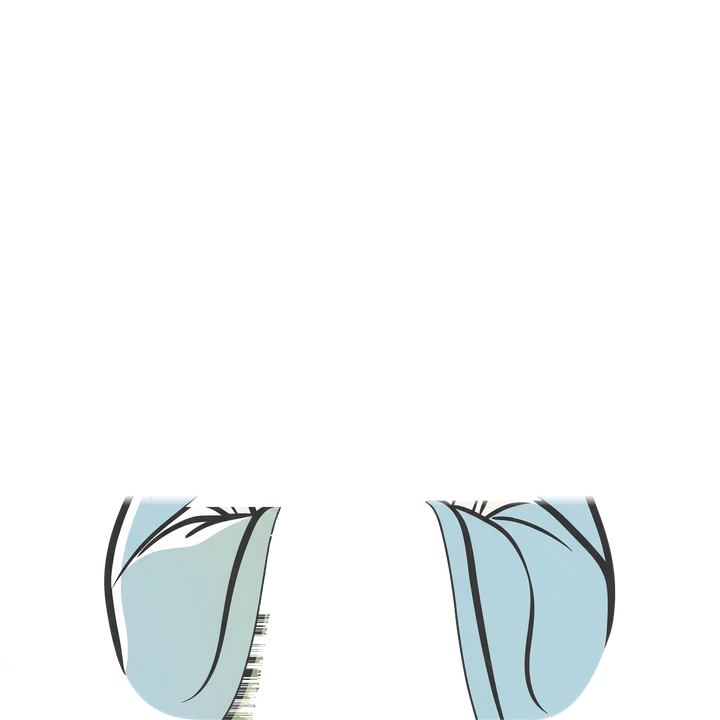
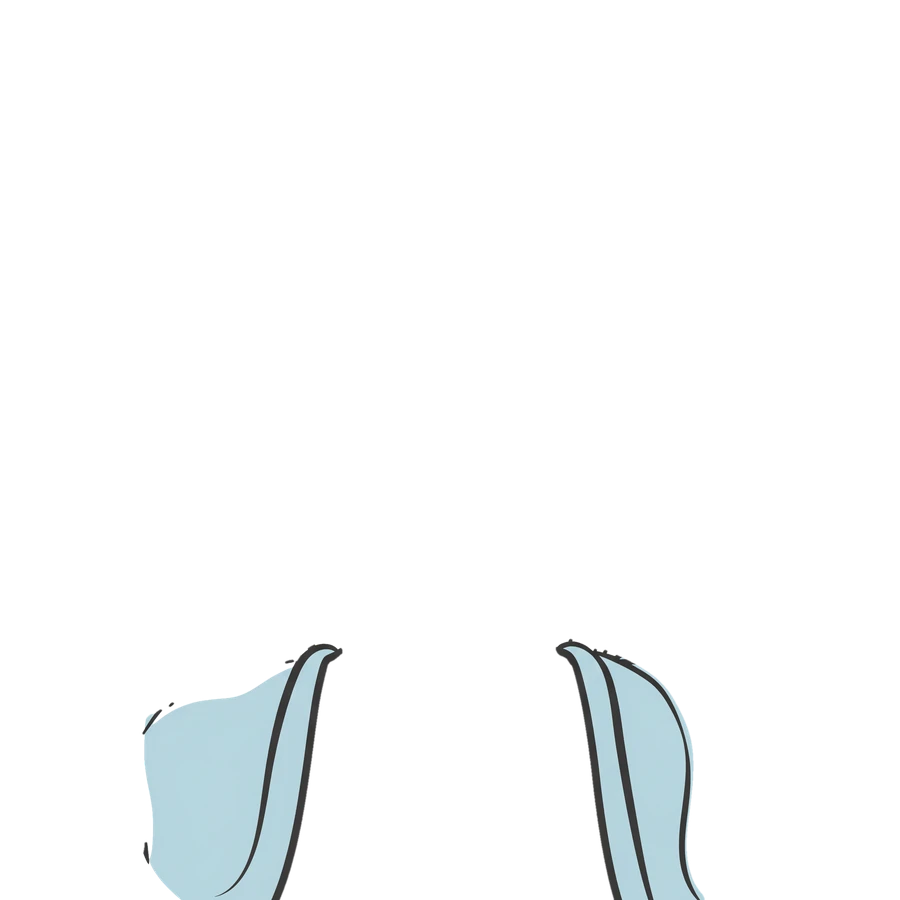
Afinador: mãos da própria ilustração saindo da manga, dobrando no pulso e se abrindo ao afinar
Mãos em contornos vetoriais (maria-maos.js) deformados por maria.js; corpo único para os dois
rostos (só olhos e boca mudam) e mangas na frente. Feixe não cobre mais o rosto. SW cl-v108.

Claude-Session: https://claude.ai/code/session_01XsCZQaSmJRsvCUYf3Lt5tw

Changed region(s): [[0.5806, 0.6722, 0.8556, 1.0], [0.1222, 0.6722, 0.3972, 1.0]]

diff --git a/app/js/maria.js b/app/js/maria.js
@@ -1,13 +1,14 @@
-// Maria como medidor do afinador (ilustração: assets/maria-*.webp). As mãos postas são uma camada separada que gira como
-// ponteiro em torno dos pulsos e de suas pontas sai um feixe de luz, que gira junto, até um arco grande em volta dela
-// (♭ à esquerda, ♯ à direita). Fora do tom ela reza (olhos fechados); ao afinar (verde) ela abre os olhos e sorri, as MESMAS mãos se abrem
-// (duas metades que se afastam) e o arco acende. O ângulo vem da variável CSS --giro (graus), posta por afinador.js;
-// o estado vem de data-estado.
-const GRAU_POR_CENT = 0.9;                                  // ±50 cents = ±45°
+// Maria como medidor do afinador. As mãos são contornos vetoriais da própria ilustração (maria-maos.js): postas, inclinam-se
+// como ponteiro dobrando no pulso, com o antebraço preso dentro da manga; afinado (verde), as MESMAS mãos se abrem e ela abre
+// os olhos e sorri (só olhos e boca mudam entre as duas imagens). Um feixe liga as pontas dos dedos ao arco.
+// afinador.js informa o ângulo na variável CSS --giro (graus) e o estado em data-estado; aqui só se anima até esse alvo.
+import { MAOS } from './maria-maos.js';
+
+const GRAU_POR_CENT = 0.8;                                  // ±50 cents = ±40°
 export const giroDeCents = c => Math.max(-50, Math.min(50, c)) * GRAU_POR_CENT;
 
-// quadro 600×480: a figura (74% da largura) fica embaixo; o pivô das mãos (pulsos) é o centro do arco
-const PX = 300, PY = 364, R0 = 335, PONTA = 100;            // PONTA = distância do pivô às pontas dos dedos
+// ---- escala: quadro 600×480; a figura ocupa 74% da largura e o pivô do ponteiro é o centro do arco ----
+const PX = 300, PY = 348, R0 = 319, PONTA = 80;             // PONTA = distância do pivô às pontas dos dedos
 const pol = (r, graus) => [PX + r * Math.sin(graus * Math.PI / 180), PY - r * Math.cos(graus * Math.PI / 180)];
 function escala() {
   let s = '';
@@ -16,22 +17,89 @@ function escala() {
     const zona = Math.abs(c) <= 5 ? 'v' : Math.abs(c) <= 20 ? 'a' : 'r';
     s += `<line class="m-t m-t-${zona}" x1="${x1.toFixed(1)}" y1="${y1.toFixed(1)}" x2="${x2.toFixed(1)}" y2="${y2.toFixed(1)}" stroke-width="${maior ? 5 : 3.5}" stroke-linecap="round"/>`;
   }
-  const [bx, by] = pol(R0 + 12, -58), [sx, sy] = pol(R0 + 12, 58);
+  const [bx, by] = pol(R0 + 12, -50), [sx, sy] = pol(R0 + 12, 50);
   return s + `<text class="m-bemol" x="${bx.toFixed(1)}" y="${(by + 10).toFixed(1)}" font-size="32" text-anchor="middle">♭</text><text class="m-sustenido" x="${sx.toFixed(1)}" y="${(sy + 10).toFixed(1)}" font-size="32" text-anchor="middle">♯</text>`;
 }
+const grad = (id, c0, c1, o0 = 0.45, o1 = 0.65) => `<linearGradient id="${id}" gradientUnits="userSpaceOnUse" x1="${PX}" y1="${PY - PONTA}" x2="${PX}" y2="${PY - R0 + 14}"><stop offset="0" stop-color="${c0}" stop-opacity="${o0}"/><stop offset=".45" stop-color="${c0}" stop-opacity="${o1}"/><stop offset="1" stop-color="${c1}" stop-opacity=".98"/></linearGradient>`;
 
 export const MARIA_HTML = `<div class="maria-quadro">
   <svg class="m-escala" viewBox="0 0 600 480" role="img" aria-label="Escala: as mãos de Maria apontam, com um feixe de luz, quanto falta para afinar">
-    <defs><linearGradient id="m-grad-feixe" gradientUnits="userSpaceOnUse" x1="300" y1="264" x2="300" y2="43"><stop offset="0" stop-color="#f4d36b" stop-opacity=".45"/><stop offset=".45" stop-color="#f4d36b" stop-opacity=".65"/><stop offset="1" stop-color="#f1b928" stop-opacity=".95"/></linearGradient><linearGradient id="m-grad-verde" gradientUnits="userSpaceOnUse" x1="300" y1="264" x2="300" y2="43"><stop offset="0" stop-color="#4caf50" stop-opacity=".45"/><stop offset=".45" stop-color="#4caf50" stop-opacity=".65"/><stop offset="1" stop-color="#43c05a" stop-opacity=".98"/></linearGradient></defs>
+    <defs>${grad('m-grad-feixe', '#f4d36b', '#f1b928')}${grad('m-grad-verde', '#4caf50', '#43c05a', 0, 0.1)}<radialGradient id="m-grad-rosto"><stop offset=".72" stop-color="#000"/><stop offset="1" stop-color="#fff"/></radialGradient><mask id="m-fora-rosto" maskUnits="userSpaceOnUse" x="-60" y="-60" width="720" height="600"><rect x="-60" y="-60" width="720" height="600" fill="#fff"/><ellipse cx="291" cy="160" rx="52" ry="70" fill="url(#m-grad-rosto)"/></mask></defs>
     ${escala()}
-    <g class="m-agulha"><line class="m-feixe" x1="${PX}" y1="${PY - PONTA}" x2="${PX}" y2="${PY - R0 + 14}" stroke="url(#m-grad-feixe)" stroke-width="5" stroke-linecap="round"/>
-      <polygon class="m-marca" points="${PX - 12},${PY - R0 + 28} ${PX + 12},${PY - R0 + 28} ${PX},${PY - R0 + 6}" stroke-linejoin="round"/></g>
+    <g mask="url(#m-fora-rosto)"><g class="m-agulha"><line class="m-feixe" x1="${PX}" y1="${PY - PONTA}" x2="${PX}" y2="${PY - R0 + 14}" stroke-width="5" stroke-linecap="round"/>
+      <polygon class="m-marca" points="${PX - 12},${PY - R0 + 28} ${PX + 12},${PY - R0 + 28} ${PX},${PY - R0 + 6}" stroke-linejoin="round"/></g></g>
   </svg>
   <div class="m-figura">
     <div class="m-brilho"></div>
     <img class="m-img m-rezando" src="assets/maria-rezando.webp" alt="" draggable="false">
     <img class="m-img m-afinada" src="assets/maria-afinada.webp" alt="" draggable="false">
-    <div class="m-maos"><img class="m-mao m-mao-e" src="assets/maria-mao-esq.webp" alt="" draggable="false"><img class="m-mao m-mao-d" src="assets/maria-mao-dir.webp" alt="" draggable="false"></div>
+    <svg class="m-img m-maos" viewBox="0 0 2048 2048" aria-hidden="true">${['e', 'd'].map(l => `<path class="m-contorno" data-l="${l}" data-p="silhueta"/><path class="m-miolo" data-l="${l}" data-p="miolo"/>`).join('')}</svg>
     <img class="m-img m-mangas" src="assets/maria-mangas.webp" alt="" draggable="false">
   </div>
 </div>`;
+
+// ---- mãos: da pose aberta (os pontos gravados) para a pose de oração, inclinando no pulso ----
+const CENTRO = 1015, BASE_Y = 1480, ESTREITA = 0.55, GIRA = 30, POLEGAR = 22, RAD = Math.PI / 180;
+const BRACO = {                                             // manga → pulso, e o ponto em torno do qual a mão gira ao fechar
+  e: { s: [728, 1612], w: [826, 1470], k: [860, 1480], g: GIRA, sinal: 1, polegar: [858, 1335] },
+  d: { s: [1325, 1618], w: [1222, 1470], k: [1188, 1480], g: -GIRA, sinal: -1, polegar: [1192, 1335] },
+};
+const suave = t => { t = Math.max(0, Math.min(1, t)); return t * t * (3 - 2 * t); };
+const gira = (x, y, cx, cy, a) => { const c = Math.cos(a), s = Math.sin(a); return [cx + (x - cx) * c - (y - cy) * s, cy + (x - cx) * s + (y - cy) * c]; };
+function adensar(c) {                                       // pontos a cada ~14 px, para a dobra sair lisa
+  const out = [], n = c.length / 2;
+  for (let i = 0; i < n; i++) {
+    const x = c[2 * i], y = c[2 * i + 1], j = (i + 1) % n, X = c[2 * j], Y = c[2 * j + 1], q = Math.max(1, Math.floor(Math.hypot(X - x, Y - y) / 14));
+    for (let k = 0; k < q; k++) out.push([x + (X - x) * k / q, y + (Y - y) * k / q]);
+  }
+  return out;
+}
+function dobraPolegar(x, y, b, k) {                         // ao fechar, o polegar encosta nos dedos
+  const borda = (1300 - y) * -0.02, dentro = b.sinal > 0 ? x > 838 + borda : x < 1212 - borda;
+  return dentro && y < 1340 ? gira(x, y, ...b.polegar, -POLEGAR * b.sinal * RAD * suave((1340 - y) / 70) * k) : [x, y];
+}
+function fechada(x, y, b) { const [X, Y] = gira(x, y, ...b.k, b.g * RAD); return [b.k[0] + (X - b.k[0]) * ESTREITA, Y]; }
+const PRONTAS = Object.fromEntries(Object.entries(MAOS).map(([l, m]) => {
+  const b = BRACO[l], pecas = { silhueta: m.silhueta.map(adensar), miolo: m.miolo.map(adensar) };
+  // desloca a mão fechada até as pontas dos dedos se encontrarem no centro
+  const q = pecas.silhueta[0].map(([x, y]) => fechada(...dobraPolegar(x, y, b, 1), b)), topo = Math.min(...q.map(p => p[1])), xs = q.filter(p => p[1] < topo + 60).map(p => p[0]);
+  return [l, { b, pecas, dx: CENTRO - (b.sinal > 0 ? Math.max(...xs) : Math.min(...xs)) + 5 * b.sinal }];
+}));
+function caminho(contornos, b, dx, abre, fi) {
+  const vx = b.w[0] - b.s[0], vy = b.w[1] - b.s[1], vv = vx * vx + vy * vy;
+  let d = '';
+  for (const c of contornos) {
+    c.forEach(([x0, y0], i) => {
+      const [x, y] = dobraPolegar(x0, y0, b, 1 - abre), peso = suave(((x0 - b.s[0]) * vx + (y0 - b.s[1]) * vy) / vv) * (1 - abre);   // 0 na manga, 1 na mão
+      const [fx, fy] = fechada(x, y, b), X = x + (fx + dx - x) * peso, Y = y + (fy - y) * peso;
+      const [px, py] = gira(X, Y, CENTRO, BASE_Y, fi * RAD * suave((1500 - Y) / 170));   // inclina do pulso para cima
+      d += (i ? 'L' : 'M') + px.toFixed(1) + ' ' + py.toFixed(1);
+    });
+    d += 'Z';
+  }
+  return d;
+}
+
+// Liga a animação: observa --giro e data-estado e leva mãos e feixe até lá (só redesenha enquanto há movimento).
+export function animarMaria(maria) {
+  const cartao = maria.closest('.afinador'), paths = [...maria.querySelectorAll('.m-maos path')], agulha = maria.querySelector('.m-agulha');
+  const direto = matchMedia('(prefers-reduced-motion: reduce)').matches;
+  let fi = 0, abre = 0, rodando = false, antes = 0;
+  const desenhar = () => {
+    const f = fi * (1 - abre);
+    for (const p of paths) { const m = PRONTAS[p.dataset.l]; p.setAttribute('d', caminho(m.pecas[p.dataset.p], m.b, m.dx, abre, f)); }
+    agulha.setAttribute('transform', `rotate(${fi.toFixed(2)} ${PX} ${PY})`);
+  };
+  const quadro = t => {
+    const dt = Math.max(0, Math.min(60, t - antes)); antes = t;
+    const alvoF = parseFloat(maria.style.getPropertyValue('--giro')) || 0, alvoA = /^(ok|perfeito)$/.test(cartao.dataset.estado || '') ? 1 : 0;
+    fi += (alvoF - fi) * (direto ? 1 : 1 - Math.exp(-dt / 45)); abre += (alvoA - abre) * (direto ? 1 : 1 - Math.exp(-dt / 110));
+    if (Math.abs(alvoF - fi) < 0.05 && Math.abs(alvoA - abre) < 0.004) { fi = alvoF; abre = alvoA; rodando = false; }
+    desenhar();
+    if (rodando && maria.isConnected) requestAnimationFrame(quadro); else rodando = false;
+  };
+  const acordar = () => { if (!rodando) { rodando = true; antes = performance.now(); requestAnimationFrame(quadro); } };
+  new MutationObserver(acordar).observe(cartao, { attributes: true, attributeFilter: ['data-estado'] });
+  new MutationObserver(acordar).observe(maria, { attributes: true, attributeFilter: ['style'] });
+  desenhar();
+}

diff --git a/app/js/maria-maos.js b/app/js/maria-maos.js
@@ -1,0 +1,3 @@
+// Contornos das mãos de Maria (pose aberta), em pixels de um quadro 2048×2048: [x, y, x, y, ...]. e/d = esquerda/direita da tela;
+// silhueta = contorno escuro, miolo = preenchimento claro. Gerado a partir da ilustração; maria.js deforma estes pontos.
+export const MAOS = {"e":{"silhueta":[[748,1133,736,1136,728,1147,729,1175,724,1185,722,1283,727,1307,732,1313,738,1316,737,1345,746,1378,785,1465,739,1502,667,1526,658,1533,655,1539,626,1655,627,1665,632,1672,689,1702,714,1713,721,1712,729,1708,767,1671,834,1601,875,1554,925,1488,932,1474,938,1456,942,1433,942,1408,938,1382,915,1312,902,1255,893,1230,886,1222,875,1218,867,1219,861,1222,854,1230,849,1245,848,1255,849,1276,853,1291,852,1294,836,1272,822,1246,812,1215,805,1180,795,1156,784,1144,778,1141,771,1140,765,1142,761,1138]],"miolo":[[740,1184,738,1188,736,1280,739,1298,742,1302,749,1256,752,1247,757,1241,757,1219,752,1196,748,1189,743,1184],[745,1147,742,1150,743,1172,756,1182,763,1195,767,1211,769,1241,777,1251,782,1264,783,1292,805,1332,805,1336,802,1339,799,1338,794,1332,784,1312,782,1312,783,1333,792,1347,799,1363,799,1371,795,1373,773,1335,773,1276,768,1256,763,1251,760,1254,753,1299,751,1323,752,1348,759,1372,782,1426,809,1482,816,1502,813,1504,802,1492,794,1478,791,1478,771,1496,747,1514,672,1539,669,1542,640,1659,641,1661,714,1699,720,1697,793,1624,848,1564,880,1525,912,1482,924,1453,928,1430,928,1411,924,1385,901,1315,888,1258,880,1236,875,1232,872,1232,867,1236,863,1248,862,1263,875,1326,879,1334,885,1340,883,1343,873,1339,859,1327,835,1296,818,1270,809,1252,801,1229,788,1174,782,1162,775,1155,771,1154,782,1195,790,1245,803,1275,822,1307,823,1313,818,1316,812,1311,796,1285,782,1255,775,1229,768,1181,759,1157,752,1149],[822,1388,851,1405,872,1426,880,1441,883,1451,884,1462,882,1471,879,1469,874,1452,864,1433,858,1425,821,1390]]},"d":{"silhueta":[[1294,1133,1285,1136,1278,1142,1271,1140,1259,1144,1246,1160,1237,1185,1229,1224,1221,1247,1209,1270,1191,1295,1190,1293,1195,1272,1195,1248,1189,1229,1183,1222,1177,1219,1168,1218,1157,1222,1150,1231,1142,1254,1128,1314,1113,1356,1105,1385,1102,1403,1102,1437,1106,1458,1118,1488,1131,1507,1181,1569,1228,1621,1298,1692,1326,1718,1337,1724,1343,1725,1348,1724,1428,1684,1433,1676,1433,1664,1400,1539,1397,1533,1388,1526,1309,1500,1301,1499,1259,1465,1300,1370,1307,1340,1306,1316,1312,1313,1316,1308,1321,1288,1322,1252,1319,1183,1315,1176,1316,1148,1308,1136]],"miolo":[[1300,1184,1294,1191,1291,1198,1287,1217,1286,1239,1294,1253,1301,1298,1303,1302,1307,1285,1308,1255,1305,1186,1304,1184],[1294,1147,1285,1156,1277,1175,1271,1205,1268,1232,1261,1256,1254,1273,1230,1313,1226,1316,1222,1316,1220,1311,1241,1274,1252,1250,1257,1230,1262,1193,1267,1172,1273,1158,1272,1154,1268,1155,1263,1160,1257,1170,1251,1188,1239,1240,1221,1278,1187,1324,1176,1335,1164,1342,1160,1342,1159,1340,1167,1330,1181,1269,1181,1251,1176,1235,1172,1232,1168,1232,1163,1237,1156,1257,1142,1317,1127,1359,1119,1388,1116,1406,1116,1434,1120,1455,1131,1482,1177,1542,1216,1587,1264,1638,1335,1707,1338,1706,1343,1711,1419,1673,1417,1659,1386,1542,1383,1539,1304,1513,1300,1513,1299,1515,1273,1496,1252,1477,1249,1479,1241,1493,1230,1504,1228,1503,1228,1498,1232,1487,1277,1390,1287,1364,1292,1345,1293,1329,1291,1299,1285,1259,1281,1251,1274,1260,1271,1273,1272,1325,1270,1336,1250,1372,1247,1373,1245,1371,1247,1356,1261,1331,1261,1313,1259,1314,1249,1333,1242,1339,1239,1336,1239,1332,1260,1293,1262,1263,1266,1252,1275,1241,1277,1209,1281,1194,1286,1184,1302,1171,1302,1151,1299,1147],[1220,1389,1221,1391,1199,1411,1181,1431,1171,1449,1165,1468,1162,1471,1160,1469,1161,1449,1173,1424,1185,1411,1199,1400]]}};

diff --git a/app/css/app.css b/app/css/app.css
@@ -604,22 +604,15 @@ body.modo-tocar::after { animation-play-state: paused; }
 .maria { display: flex; justify-content: center; margin: 2px 0 0; --giro: 0; }
 .maria-quadro { position: relative; width: min(100%, 420px); aspect-ratio: 600 / 480; }
 .maria .m-escala { position: absolute; inset: 0; width: 100%; height: 100%; overflow: visible; z-index: 2; pointer-events: none; }
-.maria .m-figura { position: absolute; left: 13%; top: 5.625%; width: 74%; aspect-ratio: 1; z-index: 1; }
+.maria .m-figura { position: absolute; left: 13.33%; top: 5.625%; width: 74%; aspect-ratio: 1; z-index: 1; }
 .maria .m-img { position: absolute; inset: 0; width: 100%; height: 100%; user-select: none; pointer-events: none; transition: opacity .3s ease; -webkit-mask-image: linear-gradient(#000 86%, transparent 99%); mask-image: linear-gradient(#000 86%, transparent 99%); }
 .maria .m-afinada { opacity: 0; }
-.maria .m-maos { position: absolute; aspect-ratio: 1591 / 1468; width: 29.8%; left: 35.1%; top: 53.3%; transform-origin: 50% 81.8%; transform: rotate(calc(var(--giro) * 1deg)); transition: transform .14s linear, opacity .3s ease; pointer-events: none; user-select: none; }
-.maria .m-mao { position: absolute; inset: 0; width: 100%; height: 100%; transition: transform .4s cubic-bezier(.3, 1.3, .5, 1); }
-.maria .m-mao-e { transform-origin: 32.6% 82%; } .maria .m-mao-d { transform-origin: 67.4% 82%; }
-.maria .m-mangas { z-index: 1; }
-.afinador[data-estado="perfeito"] .maria .m-mao-e, .afinador[data-estado="ok"] .maria .m-mao-e { transform: rotate(-30deg); }
-.afinador[data-estado="perfeito"] .maria .m-mao-d, .afinador[data-estado="ok"] .maria .m-mao-d { transform: rotate(30deg); }
-.maria .m-agulha { transform-origin: 300px 364px; transform: rotate(calc(var(--giro) * 1deg)); transition: transform .14s linear; }
+.maria .m-contorno { fill: #363635; } .maria .m-miolo { fill: #f9f6ef; fill-rule: evenodd; }
+.maria .m-feixe { stroke: url(#m-grad-feixe); }
 .maria .m-t-v { stroke: #4caf50; } .maria .m-t-a { stroke: #e9a23b; } .maria .m-t-r { stroke: #d9534f; }
 .maria .m-marca { fill: #e0a82a; transition: fill .3s; }
 .maria .m-bemol, .maria .m-sustenido { fill: #b4776a; font-family: Georgia, serif; }
 .maria .m-brilho { position: absolute; inset: 6% 4% 0; border-radius: 50%; background: radial-gradient(closest-side, rgba(76, 175, 80, .38), rgba(76, 175, 80, 0)); opacity: 0; transition: opacity .35s ease; }
-.afinador[data-estado="medindo"] .maria .m-maos { opacity: .75; }
-.afinador[data-estado="perfeito"] .maria .m-rezando, .afinador[data-estado="ok"] .maria .m-rezando { opacity: 0; }
 .afinador[data-estado="perfeito"] .maria .m-afinada, .afinador[data-estado="ok"] .maria .m-afinada,
 .afinador[data-estado="perfeito"] .maria .m-brilho, .afinador[data-estado="ok"] .maria .m-brilho { opacity: 1; }
 .afinador[data-estado="perfeito"] .maria .m-feixe, .afinador[data-estado="ok"] .maria .m-feixe { stroke: url(#m-grad-verde); filter: drop-shadow(0 0 4px #4caf50); }

diff --git a/app/sw.js b/app/sw.js
@@ -1,8 +1,8 @@
 // Service worker: guarda o app e o acervo para funcionar sem internet
-const VERSAO = 'cl-v107';
+const VERSAO = 'cl-v108';
 const ARQUIVOS = ['./', 'index.html', 'css/app.css', 'js/app.js', 'js/ui.js', 'js/dados.js', 'js/cifra.js', 'js/pdf.js',
   'js/missas.js', 'js/importar.js', 'js/ouvir.js', 'js/tocar.js', 'js/painel.js', 'js/exportar.js', 'js/pdf-missa.js', 'js/visualizar-pdf.js', 'js/ocr.js', 'js/ocr-cifra.js', 'js/partitura.js', 'js/partitura-imagem.js', 'js/conferir.js', 'js/musicxml.js', 'vendor/fflate.mjs', 'vendor/jspdf.umd.min.js', 'js/acordes-audio.js', 'js/afinador.js', 'js/afinador-nucleo.js', 'js/sumario.js', 'js/classificar.js', 'js/mscx.js', 'js/folheto.js', 'js/oracoes.js', 'js/instrumentos.js', 'js/apresentacao.js', 'js/capas.js', 'js/nuvem.js', 'js/firebase-config.js', 'vendor/firebase/firebase-app.js', 'vendor/firebase/firebase-auth.js', 'vendor/firebase/firebase-firestore.js', 'vendor/pptxgen.bundle.js', 'vendor/jsQR.js', 'manifest.webmanifest', 'icone.svg',
-  'js/afinador.js', 'js/afinador-nucleo.js', 'js/maria.js', 'assets/maria-rezando.webp', 'assets/maria-afinada.webp', 'assets/maria-mangas.webp', 'assets/maria-mao-esq.webp', 'assets/maria-mao-dir.webp', 'icone-192.png', 'icone-512.png', 'data/musicas.json', 'data/pasta.json', 'data/repertorios.json', 'data/adicionadas.json', 'data/canal.json', 'data/salmodiai.json', 'data/versoes.json'];
+  'js/afinador.js', 'js/afinador-nucleo.js', 'js/maria.js', 'js/maria-maos.js', 'assets/maria-rezando.webp', 'assets/maria-afinada.webp', 'assets/maria-mangas.webp',  'icone-192.png', 'icone-512.png', 'data/musicas.json', 'data/pasta.json', 'data/repertorios.json', 'data/adicionadas.json', 'data/canal.json', 'data/salmodiai.json', 'data/versoes.json'];
 
 self.addEventListener('install', e => {
   e.waitUntil(caches.open(VERSAO).then(c => Promise.all(ARQUIVOS.map(a => c.add(a).catch(() => {})))).then(() => self.skipWaiting()));

diff --git a/app/js/afinador.js b/app/js/afinador.js
@@ -2,7 +2,7 @@
 // núcleo (criarLeitor), testado com violão simulado em tools/testes/afinador-sensibilidade.mjs; aqui só a tela.
 import { estado, salvarPrefs } from './dados.js';
 import { aviso } from './ui.js';
-import { MARIA_HTML, giroDeCents } from './maria.js';
+import { MARIA_HTML, giroDeCents, animarMaria } from './maria.js';
 import { criarLeitor, aceitarCordas, aceitarCorda, direcaoCedo, notaDe, cordaDe, INSTRUMENTOS, cordasDoInstrumento, nomePt, midiDe, freqDoMidi, centsEntre, PRECISOES, FILTROS_ENTRADA } from './afinador-nucleo.js';
 
 let sessao = null;
@@ -60,6 +60,7 @@ export function telaAfinador(tela) {
       <p class="pequeno suave" id="dica"></p>
     </div>`;
   const $ = s => tela.querySelector(s);
+  animarMaria($('.maria'));
   // leitor com a velocidade da precisão e, se o filtro de ruído estiver ligado, só aceitando alturas perto das cordas
   // (a corda escolhida, ou qualquer uma das 6 no Automático; no Cromático o filtro não se aplica)
   const novoLeitor = () => criarLeitor({ ...PRECISOES[cfg.precisao].leitor,
